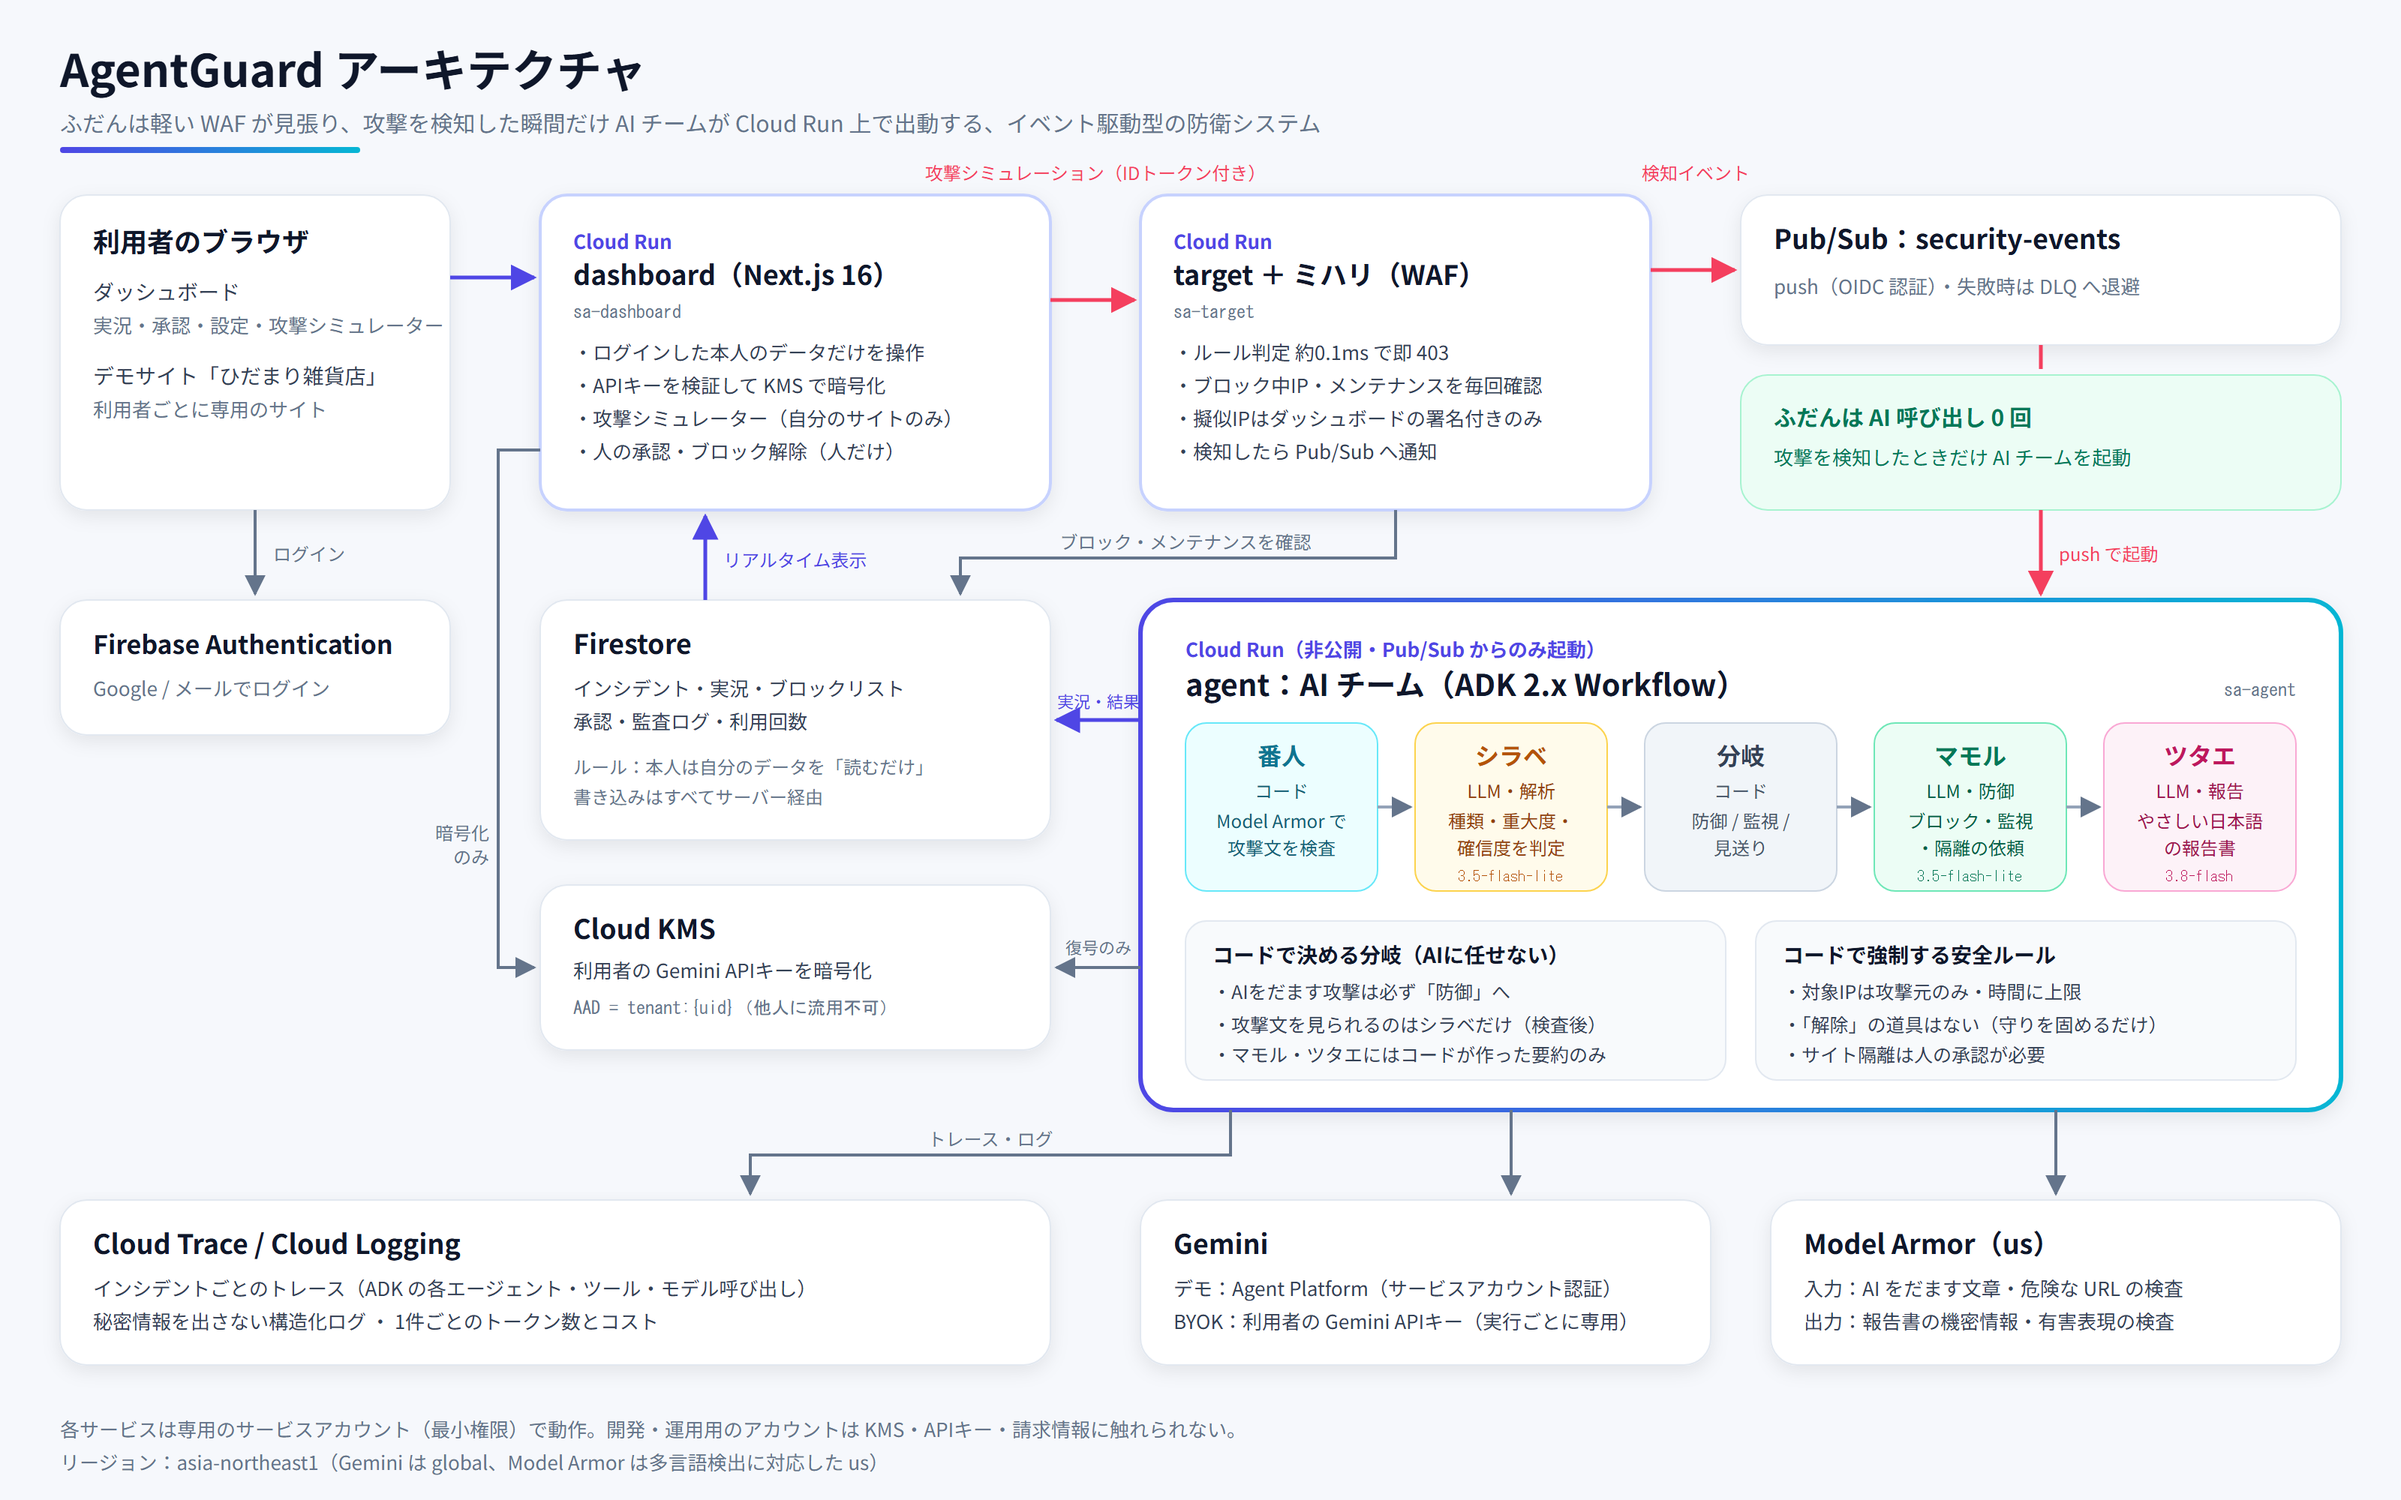
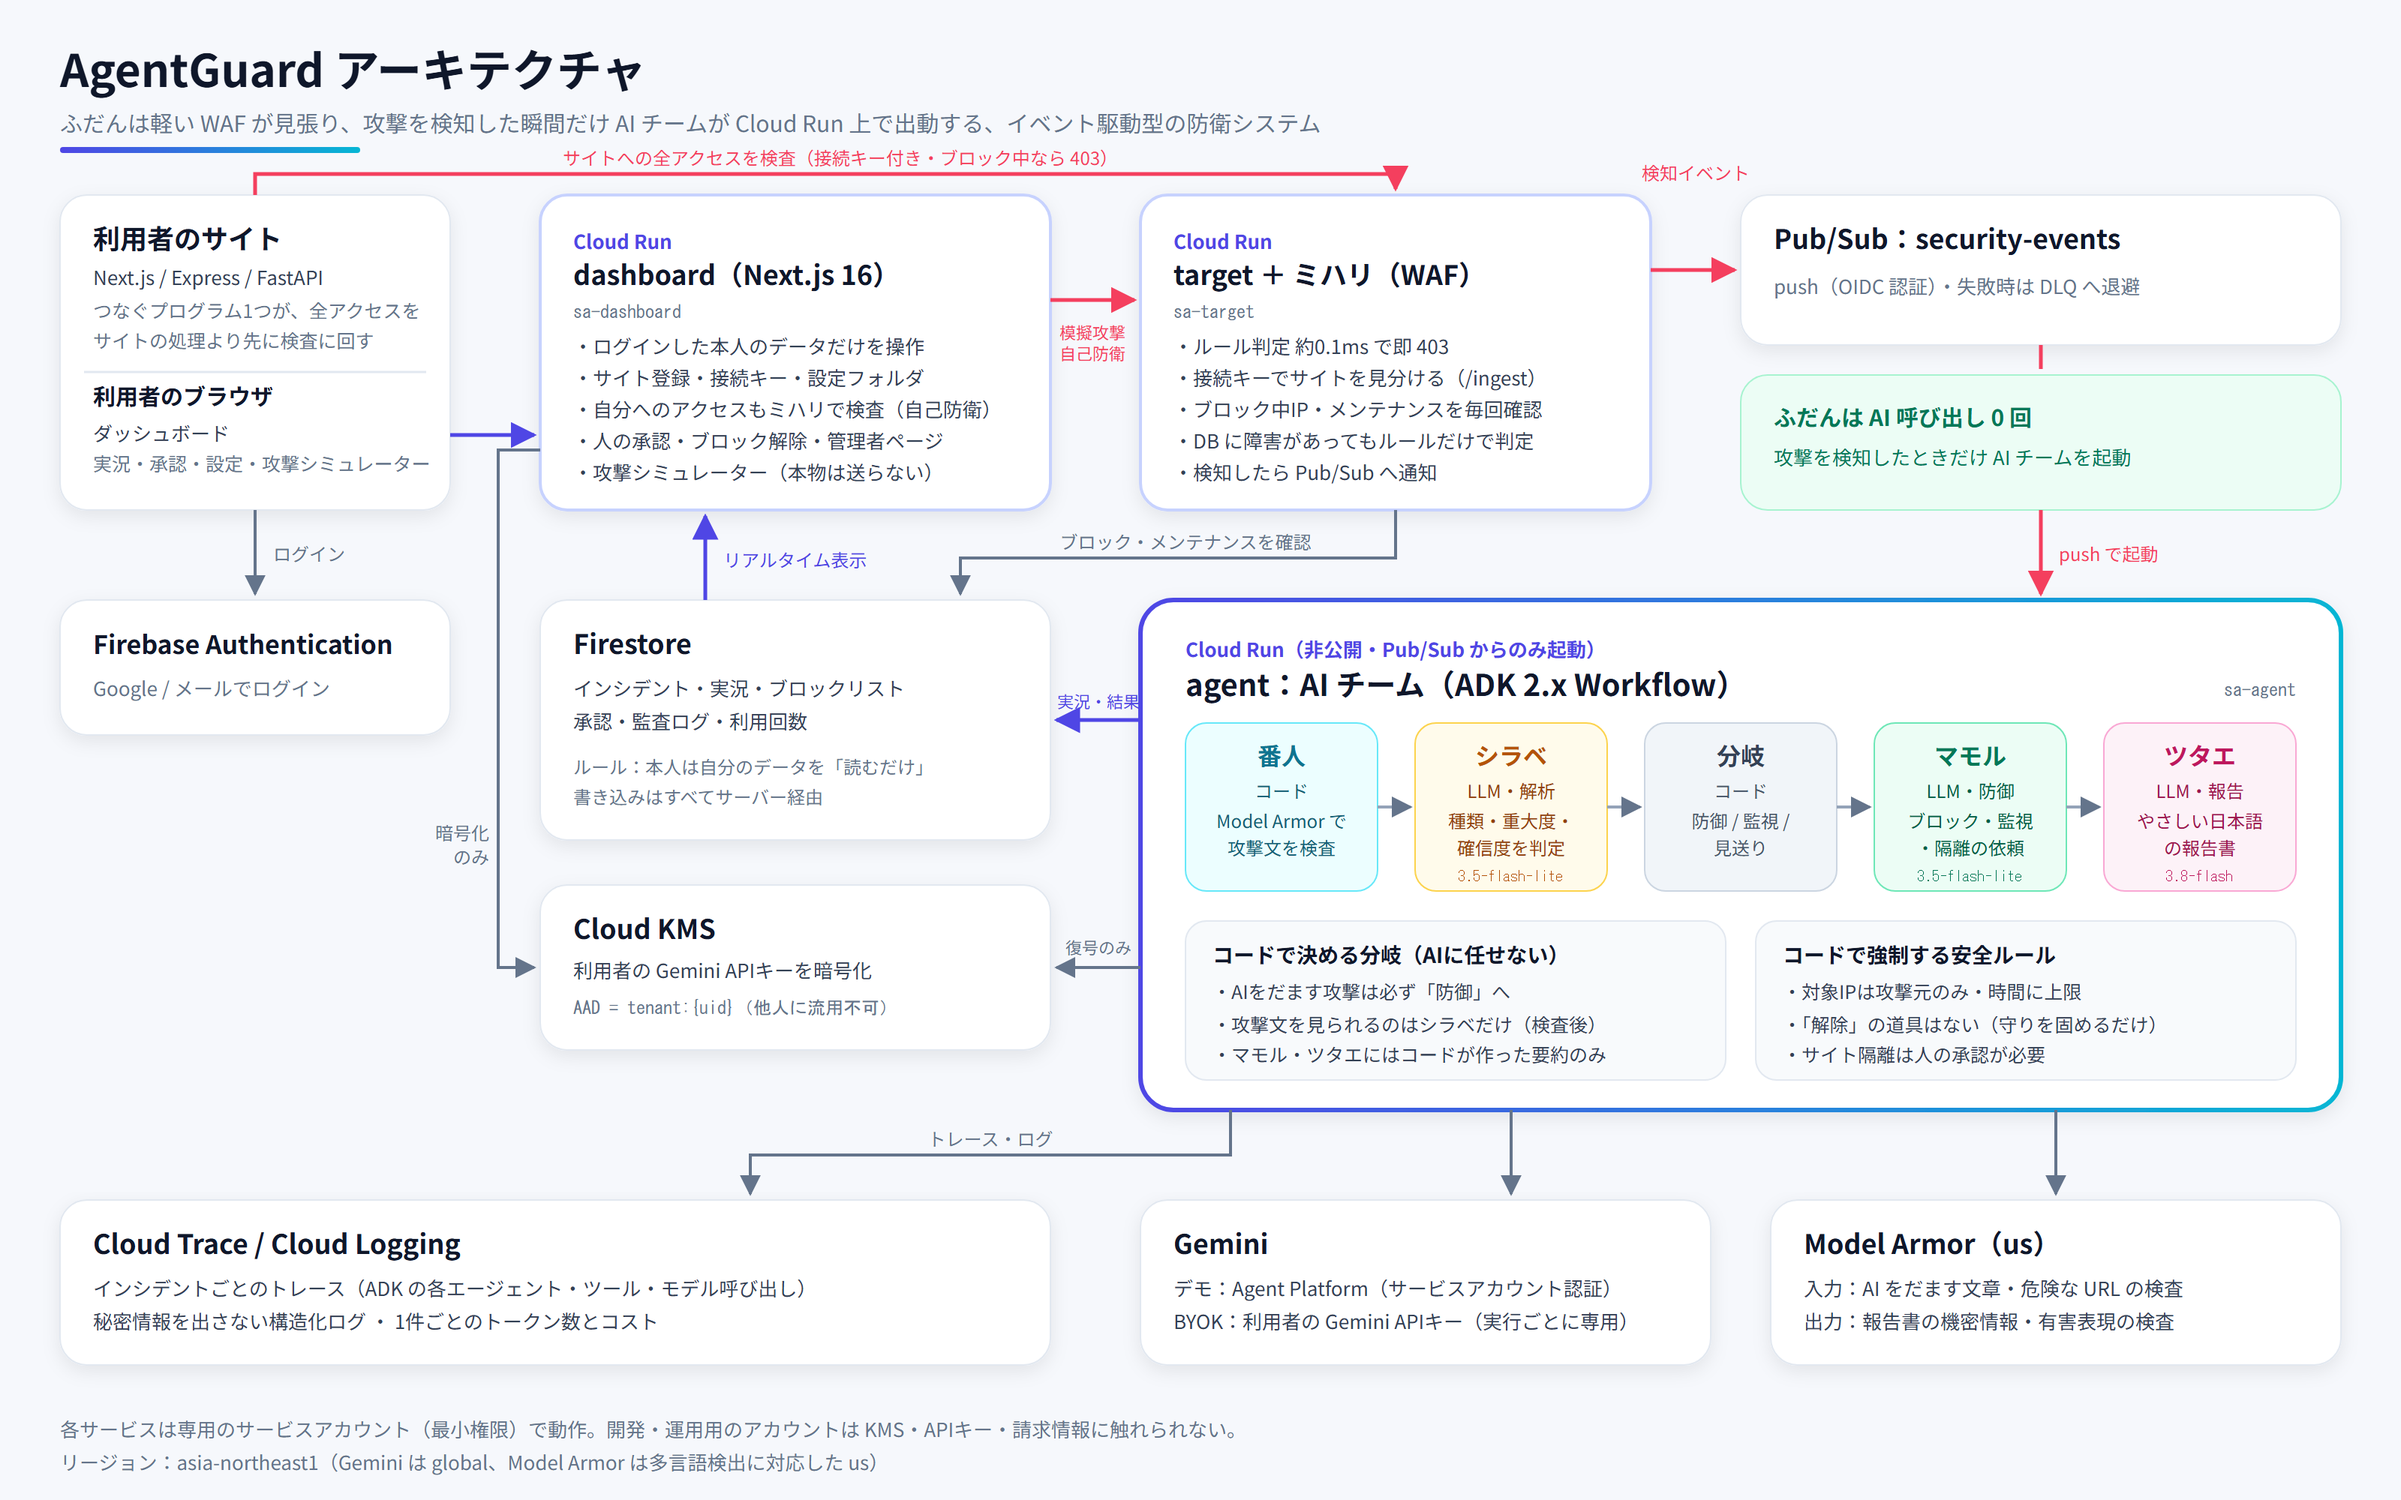
Architecture diagram: the user's own site and self-protection; submission text
The diagram still showed the removed demo shop. It now shows a registered site
(Next.js / Express / FastAPI) sending every request to /ingest before its own
code, AgentGuard checking its own traffic, and the WAF answering by rules alone
when the database has trouble. docs/submission.md holds the text for the
hackathon form (no password in it).

diff --git a/docs/submission.md b/docs/submission.md
@@ -1,0 +1,120 @@
+# AgentGuard 提出フォーム用の文章
+
+第5回 Agentic AI Hackathon with Google Cloud の提出フォームに、そのまま貼れる形にまとめたものです。
+`（ ）` の部分だけ、提出する人が埋めてください。
+
+---
+
+## プロジェクト名
+
+AgentGuard（エージェントガード）
+
+## ひとこと（キャッチコピー）
+
+自分のお気に入りサイトを、AI のチームが 24 時間守ります。ふだんは軽い WAF が見張り、攻撃を見つけた瞬間だけ AI エージェントのチームが出動して、調べて、止めて、やさしい日本語で報告します。
+
+---
+
+## プロジェクトの説明
+
+### 対象ユーザー
+
+- 個人や小さなお店・団体で、自分の Web サイトや Web アプリを運営している人
+- Next.js（Vercel など）、Express、FastAPI でサイトを作れるが、セキュリティの専門家ではない人
+- 「攻撃が来ているのか分からない」「来ても夜中は対応できない」「専用の WAF や監視サービスは高くて難しい」と感じている人
+
+### 課題
+
+1. **小さなサイトほど無防備**：SQL インジェクションや XSS などの攻撃は、規模に関係なく自動で飛んできます。それでも、小さなサイトには見張る人も仕組みもありません。
+2. **見つけても対応できない**：WAF のログは専門用語だらけです。攻撃元の遮断や影響の確認は、専門知識と時間がないとできません。夜中や外出中は、なおさら無理です。
+3. **AI に任せるのも不安**：AI にサイトの操作を任せると、だまされたり（プロンプトインジェクション）、やりすぎたり、同じ処理をくり返したりする心配があります。
+4. **導入が難しい**：セキュリティ製品の設定は、手順が多くて分かりにくいです。
+
+### ソリューションと特徴
+
+AgentGuard は、**ルールで即座に止める WAF「ミハリ」** と、**攻撃を見つけたときだけ出動する AI エージェントのチーム** を組み合わせた、イベント駆動型の防衛システムです。すべて Google Cloud の Cloud Run の上で動きます。
+
+**1. ふだんは軽く、攻撃の瞬間だけ AI が動く**
+- サイトに届くアクセスは、サイトの処理より先に、すべてミハリが検査します（判定は約 0.1 ミリ秒）。攻撃と判断したアクセスは、その場で 403 で止まります。攻撃はサイトのコードまで届きません。
+- 攻撃を見つけたときだけ、Pub/Sub 経由で AI チームが起動します。ふだんの AI 呼び出しは 0 回です。1 件の対応にかかる費用は、約 0.3〜0.5 円でした（実測）。
+
+**2. 役割を分けた AI エージェントのチーム（ADK 2.x Workflow）**
+- **番人**：Model Armor で、攻撃文に AI をだます命令（プロンプトインジェクション）が入っていないか調べます。
+- **シラベ**：攻撃の種類・重大度・確からしさを分析します。
+- **分岐**：防御・監視・見送りを、AI ではなくコードで決めます。
+- **マモル**：攻撃元 IP のブロック、監視、サイト一時停止の依頼をします。
+- **ツタエ**：専門用語を使わない、やさしい日本語で報告書を書きます。
+
+攻撃を見つけてから IP をブロックするまで、約 3〜5 秒です。
+
+**3. 安全に任せられるガバナンス（AI に任せきりにしない）**
+- **道具の制限**：AI が使える道具は「守りを固める」ものだけです。解除の道具はありません。ブロックできるのは攻撃元の IP だけで、時間にも上限があります。
+- **人の承認**：サイトを一時停止するときは、必ず人の承認が要ります。
+- **AI の暴走対策**：AI の処理には、1 件あたりの道具の回数・時間・イベント数の上限があります。同じ操作のくり返しも防ぎます。
+- **AI が止まっても守る**：AI が使えないとき（回数の上限・タイムアウトなど）も、コードの代わりの仕組みが 30 分ブロックします。
+- **大量攻撃（攻撃の波）**：AI が同時に動くのは 1 アカウント 3 件までです。それを超えた分は、ルールで即座に止めます（30 件同時の攻撃でも、約 1.5 秒で全 IP をブロック）。
+- **記録**：すべての操作は、監査ログに「だれが（AI か人か）・何をしたか」として残ります。
+
+**4. 見える化（オブザーバビリティ）**
+- ダッシュボードで、AI チームの考え・行動・結果をリアルタイムに実況します。
+- 攻撃・操作・ログインの履歴を一覧できます。
+- Cloud Trace で、インシデントごとの処理の流れを追えます。
+
+**5. だれでもつなげる導入**
+- サイトを登録すると、つなぐためのプログラム 1 つと、接続キーを保存したフォルダ（GitHub には送られず、外からも見えない）、サイトに合わせた手順書をまとめてダウンロードできます。
+- Next.js はファイルを置くだけ、Express は 1 行、FastAPI は 2 行を足すだけです。
+- Claude Code などの AI に作業を任せるための指示書も、同じフォルダに入っています。
+- 「あなたのサイトかどうか」の確認は、キーそのものを外に出さない HMAC の答えで自動で行います。
+
+**6. 自分の Gemini API キーも使える（BYOK）**
+- 利用者の API キーは Cloud KMS で暗号化して保存します。1 日の上限は利用者が決められます（上限なしも可）。
+- デモモードは、プロジェクトの Gemini（Agent Platform）で動きます。
+
+**7. AgentGuard 自身も守る**
+- このダッシュボードへのアクセスも、同じミハリと AI チームで守っています。守りの状況は、だれでも数で確認できます。
+- くわしい記録と操作（ブロック解除・許可リスト）は、管理者の 1 アカウントだけが使えます。
+
+### 使っている Google Cloud の技術
+
+- **アプリ実行**：Cloud Run（dashboard / target＋WAF / agent の 3 サービス）
+- **AI**：Gemini（Gemini Enterprise Agent Platform）、Agent Development Kit（ADK 2.x Workflow）、Model Armor
+- **そのほか**：Pub/Sub（イベント駆動・DLQ）、Firestore、Cloud KMS、Firebase Authentication、Cloud Trace / Cloud Logging
+- 各サービスは、専用の最小権限のサービスアカウントで動きます。
+
+---
+
+## デプロイ URL
+
+https://dashboard-1032914465512.asia-northeast1.run.app
+
+## 動作確認の方法（審査用テストアカウント）
+
+- **ログイン方法**：メールアドレスとパスワード（トップページの「メールでログイン」）
+- **メールアドレス**：`judge@agentguard.demo`
+- **パスワード**：（お手元のパスワードを記入）
+
+**確認の手順**
+1. ログインすると、ダッシュボードが開きます。
+2. 右側の **「攻撃シミュレーター」** のボタンを押してください。本物のサイトには何も送らず、見本の攻撃イベントを AgentGuard に流します。
+   - 1 件ずつ：数秒で、AI チーム（番人 → シラベ → マモル → ツタエ）が調べて IP をブロックし、報告書を書く様子が実況されます。
+   - 「5 件」「30 件」：同時の大量攻撃（攻撃の波）を、AI とルールで分担して止める様子が見られます。
+3. **「履歴」**：これまでの攻撃・操作・ログインの記録が見られます。
+4. **「守るサイト」**：自分のサイトを登録してつなぐ手順（4 ステップ、フォルダのダウンロード）が見られます。
+5. ダッシュボードの **「AgentGuard 自身も守っています」** のカード：このサイト自身への本物のアクセスを検査した数・止めた数が見られます。
+
+**補足**
+- このアカウントの AI 解析は、1 日 50 回まで使えます（それを超えても、ルールでの防御は続きます）。
+- Google ログインは使わなくても確認できます。
+
+## GitHub リポジトリ
+
+https://github.com/hina17ta17/AI-Agent-Security
+（提出画面から GitHub App で連携してください）
+
+## システムアーキテクチャ図
+
+`docs/architecture.png`（リポジトリ内）をアップロードしてください。
+
+## デモ動画
+
+（YouTube の URL を記入）
